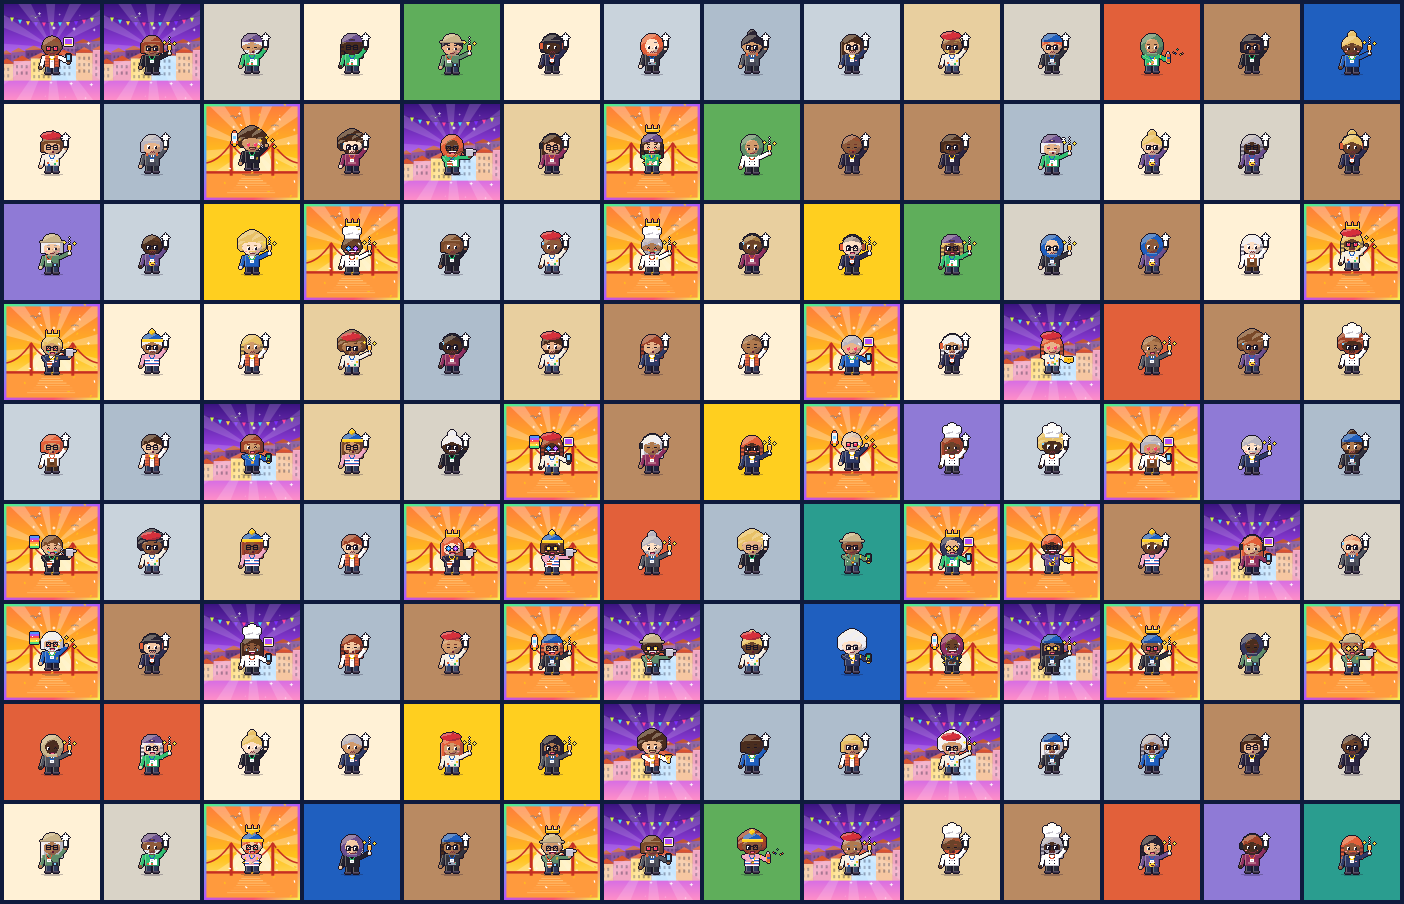
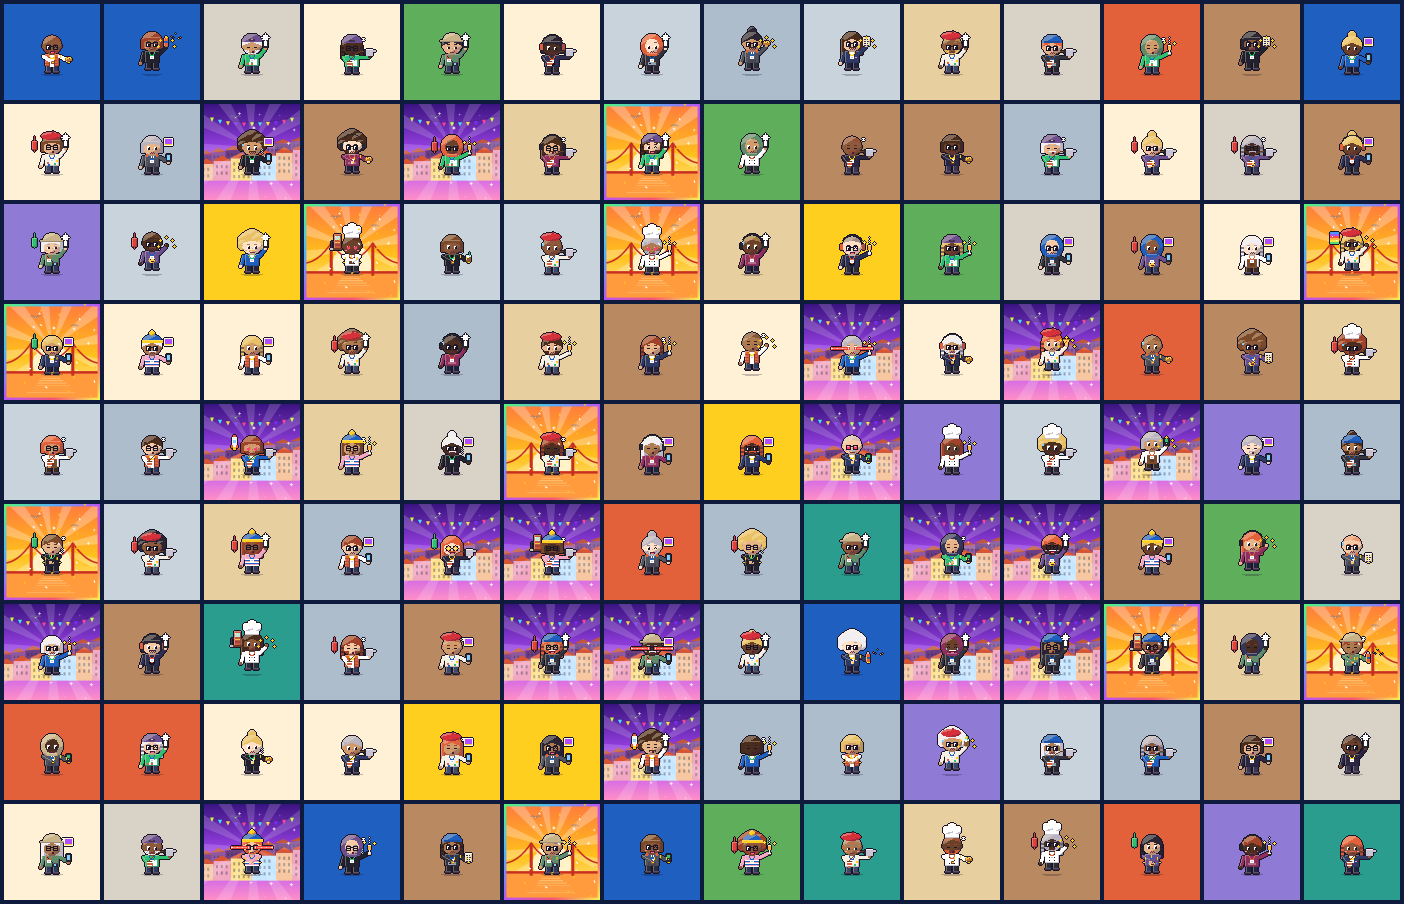
Legendary: catch the one who did it with the phone still full
Catching them with a bar missing is an Epic, and Epic starts at 5 levels
cleared (was 4). Simulated tiers go from about 52/20/10/18 to 50/26/17/7.
Site copy, the game and the collection wall follow.

diff --git a/public/index.html b/public/index.html
@@ -143,7 +143,7 @@
         <div class="subpane acc" data-col-pane="facts" hidden>
           <details name="facts" open><summary>Earned, not bought</summary><p>No public mint and no allowlist: the contract refuses a wallet without a finished run. Each Not Fungible Avatar comes from one paid run on THE WALL ARCADE, scored by SuperRare's server. One wallet can play 50 runs at most.</p></details>
           <details name="facts"><summary>10,000 different people</summary><p>16 roles, every skin, hair, hair color, facial hair and eyewear. 10,000 at most, on Ethereum, each person minted once.</p></details>
-          <details name="facts"><summary>Tier earned, the rest is luck</summary><p>The tier is earned by playing, and the Background follows it. Moment, Expression and Item are the luck of the run, never above your tier. Legendary only if you catch the one who did it.</p></details>
+          <details name="facts"><summary>Tier earned, the rest is luck</summary><p>The tier is earned by playing, and the Background follows it. Moment, Expression and Item are the luck of the run, never above your tier. Legendary only if you catch the one who did it with your phone still full.</p></details>
           <details name="facts"><summary>Entirely on chain</summary><p>Traits, picture and the live show all live in the contract: no server and no IPFS behind them. The art gets locked for good after launch.</p></details>
           <details name="facts"><summary>Twelve traits</summary><p>Background · Role · Pass · Hair · Hair Color · Facial Hair · Eyewear · Expression · Item · Moment · Tier · Score.</p></details>
           <details name="facts"><summary>The contract</summary><p><span id="contract-fact">The contract address appears here at launch.</span> Royalties: 5% to the creator (ERC-2981).</p></details>
@@ -223,7 +223,7 @@
           <details name="traits"><summary>Expression</summary><p>The luck of the run, up to your tier: from Low Battery to Unicorn Tears.</p></details>
           <details name="traits"><summary>Item</summary><p>The luck of the run, up to your tier: 18 items, from an Iced Coffee to Laser Eyes, a Crown or the Genesis Block.</p></details>
           <details name="traits"><summary>Moment</summary><p>The luck of the run, in your tier's version (Front Cam → Broke the Internet).</p></details>
-          <details name="traits"><summary>Tier</summary><p>Earned by playing. Legendary = catch the one who did it, on level 6. Otherwise the levels you clear: Epic 4+, Rare 2+.</p></details>
+          <details name="traits"><summary>Tier</summary><p>Earned by playing. Legendary = catch the one who did it, on level 6, with your phone still full. Catch them with a bar missing, or clear 5 levels: Epic. Rare: 2+ levels.</p></details>
         </div>
       </div>
     </section>
@@ -239,7 +239,7 @@
         <details name="faq"><summary>How many Not Fungible Avatars will exist?</summary><p>10,000 at most, and never the same person twice. One per paid run: each run can mint only once, and one wallet can play at most 50 runs, so nobody fills the collection alone. The game tells you before it spends a credit if a run could not end in a mint.</p></details>
         <details name="faq"><summary>What do I get?</summary><p>An animated Not Fungible Avatar: the person you caught, living their moment on loop, with a voice of its own.</p></details>
         <details name="faq"><summary>What is "Next"?</summary><p>Where the collection can go after the party: avatars that talk and play on their own, on open standards (an ERC-8004 identity, an ERC-6551 wallet, both once minted and only if the owner wants). It is an experiment for later, not the point of the project: the point is the art and the fun.</p></details>
-        <details name="faq"><summary>How do I get a Legendary?</summary><p>Clear all six levels and catch the one who pulled the rug, on the rooftop, before your phone dies. No luck, no allowlist, just your eyes.</p></details>
+        <details name="faq"><summary>How do I get a Legendary?</summary><p>Clear all six levels and catch the one who pulled the rug, on the rooftop, with your phone still full: all five bars. Every door gives a bar back. No luck, no allowlist, just your eyes.</p></details>
         <details name="faq"><summary>Is it fair?</summary><p>On THE WALL ARCADE every run is scored by SuperRare's server, not by your browser. Your tier comes from that verified score and the rest from the run's own id, which the platform makes: one mint per run, no trait above your tier, never the same person twice.</p></details>
         <details name="faq"><summary>Who are the characters?</summary><p>Original pixel people: artists, collectors, devs, founders, curators, streamers, degens, DJs, whales, bodyguards, baristas, gamers, meme lords, photographers, skaters and chefs. Every look, every background, independent of the role.</p></details>
         <details name="faq"><summary>Made for Lisbon?</summary><p>A tribute to the NFC Lisbon community: artists and collectors, builders, curators, DJs and the friends you meet at brunch. What stays with you is never a floor price, it is the moments. Azulejos, calçada, Tram 28, the red bridge at golden hour and a pastel de nata in the wrong place at the wrong time: the Lisbon edition of THE WALL ARCADE at NFC Summit 2027.</p></details>
@@ -262,7 +262,7 @@
 
   <!-- The game's own engine + art (generated from ../index.html by `npm run brand`). -->
   <script src="assets/site-config.js?v=3"></script>
-  <script src="assets/nfa-art.js?v=3"></script>
+  <script src="assets/nfa-art.js?v=4"></script>
   <script src="assets/nfa-runner.js?v=3"></script>
   <script>
   (function () {
@@ -655,7 +655,7 @@
       ['Lights low. They look more alike.', 'i am on stage. or am i.', 'Three traits apart now. Bump the DJ and the music stops.'],
       ['People change lanes. Trust no one.', 'everyone here looks like me. awkward.', 'Two traits apart. Holo 1/1s on plinths, and you are about to hit one.'],
       ['The photo goes dark. Remember the face.', 'your battery looks low. shame.', 'Battery saver is on. Espresso number four makes it worse.'],
-      ['This is them. The one who pulled the rug.', 'ok fine. you are good. catch me if you can.', 'One trait apart. Seagulls have opinions. Catch them: Legendary.']
+      ['This is them. The one who pulled the rug.', 'ok fine. you are good. catch me if you can.', 'One trait apart. Seagulls have opinions. Catch them with a full phone: Legendary.']
     ];
     function showLevel(i) {
       levelSel = i;

diff --git a/public/game/index.html b/public/game/index.html
@@ -226,7 +226,7 @@
             <li>Somebody at the party <b>pulled the rug</b>. Their photo is on your phone.</li>
             <li><b>Tap left or right</b> to change lane. Run <b>into</b> the person on the photo, around everybody else.</li>
             <li>Bump the wrong person and your phone loses a bar (and you hear about it). <b>Five bars</b>, then it's over.</li>
-            <li>Six places of Lisbon. <b>Catch the one who did it = Legendary.</b> Fill your Wall of Shame.</li>
+            <li>Six places. <b>Catch them, phone still full = Legendary.</b> Fill your Wall of Shame.</li>
           </ol>
           <p class="species-line">They all look alike. Nobody is fungible.</p>
           <div class="actions column">
@@ -249,7 +249,7 @@
         <div class="panel">
           <h2 id="consent-heading">Spend 1 credit?</h2>
           <p class="balance"><span id="consent-before">0</span><small>→</small><span id="consent-after">0</span><small>credits</small></p>
-          <p>A paid run unlocks <b>Mint your Not Fungible Avatar</b> when it ends. How far you get sets the tier; the rest is the luck of the run. Catch the one who did it for <b>Legendary</b>.</p>
+          <p>A paid run unlocks <b>Mint your Not Fungible Avatar</b> when it ends. How far you get sets the tier; the rest is the luck of the run. Catch the one who did it with your phone still full for <b>Legendary</b>.</p>
           <div class="actions column">
             <button id="btn-consent-yes" class="btn primary wide" type="button" data-autofocus>Spend 1 credit &amp; play</button>
             <button id="btn-add-demo" class="btn wide hidden" type="button">Add 3 demo credits</button>
@@ -445,8 +445,9 @@
     var TIER_OF_PROP = [0, 0, 0, 0, 0, 1, 1, 1, 1, 1, 2, 2, 2, 2, 2, 3, 3, 3];   // tier of each PROPS entry (the contract's _propTier)
     var PROP_START = [0, 5, 10, 15], PROP_COUNT = [5, 5, 5, 3];
 
-    /* Levels cleared for each tier; Legendary only for catching the one who did it. */
-    var RARE_LEVELS = 2, EPIC_LEVELS = 4;
+    /* Levels cleared for each tier. Catching the one who did it is an Epic; with the phone still full (LEGENDARY_BATTERY bars
+       at the catch) it is a Legendary. */
+    var RARE_LEVELS = 2, EPIC_LEVELS = 5, LEGENDARY_BATTERY = MAX_BATTERY;
 
     /* ---------- seeded RNG (mulberry32); its state lives in the run ---------- */
     function rnd(s) {
@@ -799,9 +800,10 @@
       };
     }
 
-    /* Legendary ONLY for catching the one who did it; otherwise the levels you cleared. */
+    /* Legendary ONLY for catching the one who did it with the phone still full; catching them with bars missing is an Epic;
+       otherwise the levels you cleared. */
     function rarityOf(sc) {
-      if (sc.survived) return 3;
+      if (sc.survived) return sc.battery >= LEGENDARY_BATTERY ? 3 : 2;
       if (sc.cleared >= EPIC_LEVELS) return 2;
       if (sc.cleared >= RARE_LEVELS) return 1;
       return 0;
@@ -828,7 +830,7 @@
       var h = 0x811c9dc5, str = String(runId).toLowerCase();
       for (var i = 0; i < str.length; i++) {
         var c = str.codePointAt(i), bytes;
-        if (c > 0xffff) i++;
+        if (c > 0xffff) i++; else if (c >= 0xd800 && c <= 0xdfff) c = 0xfffd;   // a lone surrogate: the replacement character, as UTF-8 encoders do
         bytes = c < 0x80 ? [c] : c < 0x800 ? [0xc0 | c >> 6, 0x80 | c & 63] : c < 0x10000 ? [0xe0 | c >> 12, 0x80 | c >> 6 & 63, 0x80 | c & 63]
           : [0xf0 | c >> 18, 0x80 | c >> 12 & 63, 0x80 | c >> 6 & 63, 0x80 | c & 63];
         for (var j = 0; j < bytes.length; j++) { h ^= bytes[j]; h = Math.imul(h, 0x01000193); }
@@ -847,7 +849,7 @@
     }
 
     /*
-     * Traits. The TIER is earned by playing (rarityOf: the levels you cleared, Legendary only for catching the one who did it).
+     * Traits. The TIER is earned by playing (rarityOf: the levels you cleared, Legendary only for catching the one who did it with a full phone).
      * Everything else is the luck of the run: moment, expression and item come from picksOf(rarity, traitSeed), where traitSeed is
      * traitSeedOfRun(runId) for a paid run and the run's seed for the free trial and practice (pass it as the 4th argument).
      * Indices are what the NFT stores: action = act*4+tier, expression 0..10, item 0..17, each capped by the tier.
@@ -889,7 +891,7 @@
       HAIRS: HAIRS, HAIR_COLORS: HAIR_COLORS, HIJAB_COLORS: HIJAB_COLORS, FACIAL_HAIR: FACIAL_HAIR,
       BACKDROPS: BACKDROPS, BACKDROP_COLORS: BACKDROP_COLORS, EVENT: EVENT,
       backdropOf: backdropOf, backdropIndex: backdropIndex,
-      TIER_OF_11: TIER_OF_11, TIER_OF_PROP: TIER_OF_PROP, PROP_START: PROP_START, PROP_COUNT: PROP_COUNT, TIER_STEP: TIER_STEP, RARE_LEVELS: RARE_LEVELS, EPIC_LEVELS: EPIC_LEVELS,
+      TIER_OF_11: TIER_OF_11, TIER_OF_PROP: TIER_OF_PROP, PROP_START: PROP_START, PROP_COUNT: PROP_COUNT, TIER_STEP: TIER_STEP, RARE_LEVELS: RARE_LEVELS, EPIC_LEVELS: EPIC_LEVELS, LEGENDARY_BATTERY: LEGENDARY_BATTERY,
       createRun: createRun, advance: advance, applyInput: applyInput, validateInput: validateInput,
       actorLane: actorLane, heatOf: heatOf, speedOf: speedOf, multOf: multOf,
       isFinished: isFinished, survived: survived, score: score, rarityOf: rarityOf, shareGrid: shareGrid,
@@ -3451,7 +3453,7 @@
       badge.textContent = tr.rarityName.toUpperCase(); badge.className = 'rarity-badge r' + tr.rarity;
       $('avatar-name').textContent = session.name;
       $('final-score').textContent = sc.total + (newBest ? ' ★' : '');
-      $('survival-line').textContent = sc.survived ? 'You caught them!' : sc.battery <= 0 ? root.AERunner.causeOfDeath(sc) : TRIAL ? 'Free trial, level ' + (sc.cleared + 1) : 'Party over, level ' + (sc.cleared + 1);
+      $('survival-line').textContent = sc.survived ? (tr.rarity === 3 ? 'You caught them, phone still full!' : 'You caught them! A full phone makes it Legendary.') : sc.battery <= 0 ? root.AERunner.causeOfDeath(sc) : TRIAL ? 'Free trial, level ' + (sc.cleared + 1) : 'Party over, level ' + (sc.cleared + 1);
       $('damage').innerHTML = root.AERunner.damageLines(sc).map((l) => '<li>' + esc(l) + '</li>').join('');
       const shameCanvas = $('shame-canvas');
       shameCanvas.width = 320; shameCanvas.height = 160;

diff --git a/public/assets/nfa-art.js b/public/assets/nfa-art.js
@@ -117,8 +117,9 @@
     var TIER_OF_PROP = [0, 0, 0, 0, 0, 1, 1, 1, 1, 1, 2, 2, 2, 2, 2, 3, 3, 3];   // tier of each PROPS entry (the contract's _propTier)
     var PROP_START = [0, 5, 10, 15], PROP_COUNT = [5, 5, 5, 3];
 
-    /* Levels cleared for each tier; Legendary only for catching the one who did it. */
-    var RARE_LEVELS = 2, EPIC_LEVELS = 4;
+    /* Levels cleared for each tier. Catching the one who did it is an Epic; with the phone still full (LEGENDARY_BATTERY bars
+       at the catch) it is a Legendary. */
+    var RARE_LEVELS = 2, EPIC_LEVELS = 5, LEGENDARY_BATTERY = MAX_BATTERY;
 
     /* ---------- seeded RNG (mulberry32); its state lives in the run ---------- */
     function rnd(s) {
@@ -471,9 +472,10 @@
       };
     }
 
-    /* Legendary ONLY for catching the one who did it; otherwise the levels you cleared. */
+    /* Legendary ONLY for catching the one who did it with the phone still full; catching them with bars missing is an Epic;
+       otherwise the levels you cleared. */
     function rarityOf(sc) {
-      if (sc.survived) return 3;
+      if (sc.survived) return sc.battery >= LEGENDARY_BATTERY ? 3 : 2;
       if (sc.cleared >= EPIC_LEVELS) return 2;
       if (sc.cleared >= RARE_LEVELS) return 1;
       return 0;
@@ -500,7 +502,7 @@
       var h = 0x811c9dc5, str = String(runId).toLowerCase();
       for (var i = 0; i < str.length; i++) {
         var c = str.codePointAt(i), bytes;
-        if (c > 0xffff) i++;
+        if (c > 0xffff) i++; else if (c >= 0xd800 && c <= 0xdfff) c = 0xfffd;   // a lone surrogate: the replacement character, as UTF-8 encoders do
         bytes = c < 0x80 ? [c] : c < 0x800 ? [0xc0 | c >> 6, 0x80 | c & 63] : c < 0x10000 ? [0xe0 | c >> 12, 0x80 | c >> 6 & 63, 0x80 | c & 63]
           : [0xf0 | c >> 18, 0x80 | c >> 12 & 63, 0x80 | c >> 6 & 63, 0x80 | c & 63];
         for (var j = 0; j < bytes.length; j++) { h ^= bytes[j]; h = Math.imul(h, 0x01000193); }
@@ -519,7 +521,7 @@
     }
 
     /*
-     * Traits. The TIER is earned by playing (rarityOf: the levels you cleared, Legendary only for catching the one who did it).
+     * Traits. The TIER is earned by playing (rarityOf: the levels you cleared, Legendary only for catching the one who did it with a full phone).
      * Everything else is the luck of the run: moment, expression and item come from picksOf(rarity, traitSeed), where traitSeed is
      * traitSeedOfRun(runId) for a paid run and the run's seed for the free trial and practice (pass it as the 4th argument).
      * Indices are what the NFT stores: action = act*4+tier, expression 0..10, item 0..17, each capped by the tier.
@@ -561,7 +563,7 @@
       HAIRS: HAIRS, HAIR_COLORS: HAIR_COLORS, HIJAB_COLORS: HIJAB_COLORS, FACIAL_HAIR: FACIAL_HAIR,
       BACKDROPS: BACKDROPS, BACKDROP_COLORS: BACKDROP_COLORS, EVENT: EVENT,
       backdropOf: backdropOf, backdropIndex: backdropIndex,
-      TIER_OF_11: TIER_OF_11, TIER_OF_PROP: TIER_OF_PROP, PROP_START: PROP_START, PROP_COUNT: PROP_COUNT, TIER_STEP: TIER_STEP, RARE_LEVELS: RARE_LEVELS, EPIC_LEVELS: EPIC_LEVELS,
+      TIER_OF_11: TIER_OF_11, TIER_OF_PROP: TIER_OF_PROP, PROP_START: PROP_START, PROP_COUNT: PROP_COUNT, TIER_STEP: TIER_STEP, RARE_LEVELS: RARE_LEVELS, EPIC_LEVELS: EPIC_LEVELS, LEGENDARY_BATTERY: LEGENDARY_BATTERY,
       createRun: createRun, advance: advance, applyInput: applyInput, validateInput: validateInput,
       actorLane: actorLane, heatOf: heatOf, speedOf: speedOf, multOf: multOf,
       isFinished: isFinished, survived: survived, score: score, rarityOf: rarityOf, shareGrid: shareGrid,

diff --git a/README.md b/README.md
@@ -17,7 +17,7 @@ You run in first person through six places of Lisbon (the metro, the brunch, the
 
 - **10,000 people at most, on Ethereum**, minted through SuperRare. Never the same person twice.
 - 1 credit = 1 run = 1 Not Fungible Avatar. Every trait is earned by playing.
-- Tiers come from the levels you clear; Legendary only for catching the one who did it.
+- Tiers come from the levels you clear; Legendary only for catching the one who did it with the phone still full.
 - The NFT is an animated GIF of the same pixel person you chased in the game.
 
 ## This repository
